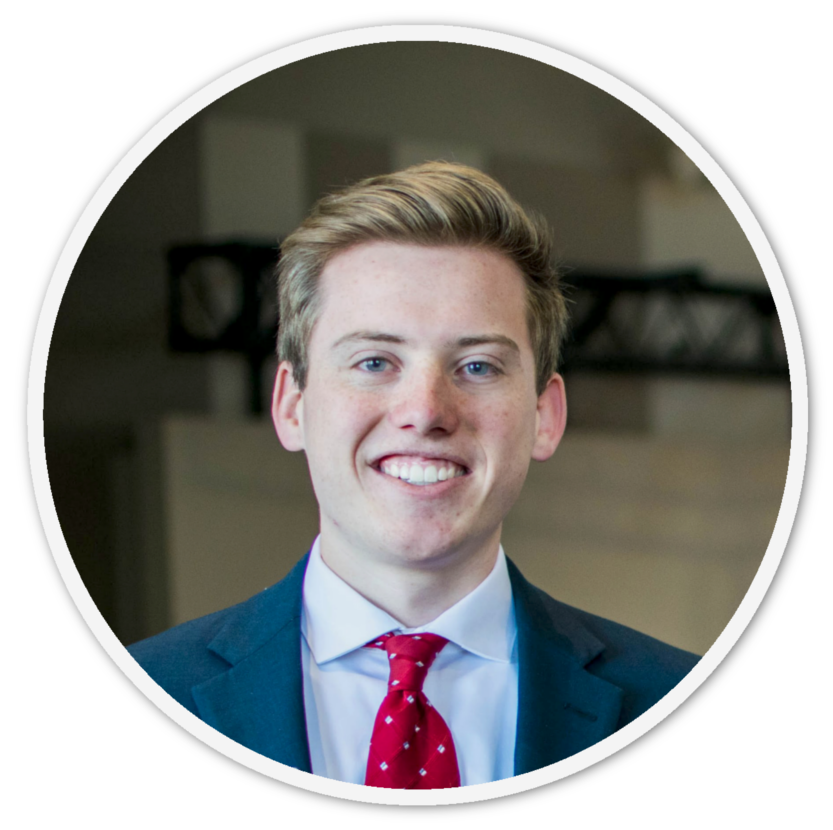
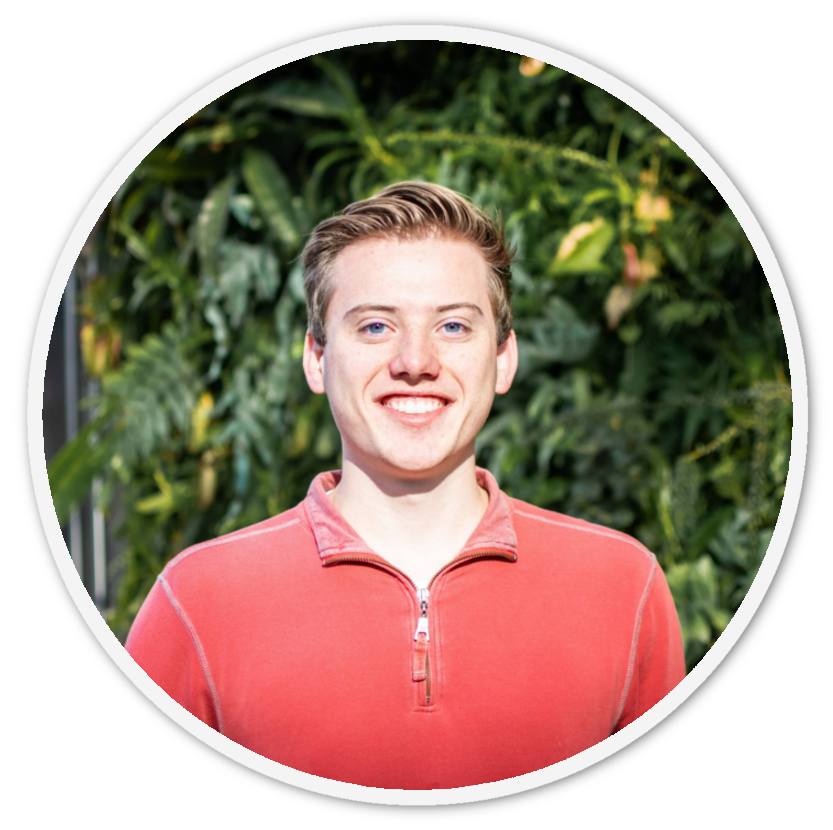
header overhaul + new profile pic

diff --git a/index.html b/index.html
@@ -17,21 +17,27 @@
 
     <header>
       <div class="container kanban">
-        <div class="row">
-          <div class="col-md-12">
-            <img class="profilepic" src="img/me.png">
-            <h1>NICK SISCOE</h1>
-            <p>Software Engineer • <strike>Husker football</strike> Scott Frost fan • Guitarist • Eye for design • Futuristic • Aspiring PM • Raikes Scholar • Kansas City BBQ lover</p>
-            <div class=container>
-              <div class="row">
-                <div class="col-lg-4">
-                  <p><a href="mailto:nick.siscoe@gmail.com" class="btn btn-light">Email</a></p>
-                </div>
-                <div class="col-lg-4">
-                  <p><a href="https://github.com/nasiscoe" class="btn btn-light">GitHub</a></p>
-                </div>
-                <div class="col-lg-4">
-                  <p><a href="https://dribbble.com/nasiscoe" class="btn btn-light">Dribbble</a></p>
+        <div class="row head">
+          <div class="col-lg-5">
+            <img class="profilepic" src="img/me.png" alt="A picture of Nick Siscoe">
+          </div>
+          <div class="col-lg-7">
+            <div class="card">
+              <div class="card-body">
+                <h1>Nick Siscoe</h1>
+                <p>Software Engineer • Husker Football Fan • Guitarist • Eye For Design • Futuristic • Aspiring PM • Raikes Scholar • Kansas City BBQ Lover</p>
+                <div class=container>
+                  <div class="row">
+                    <div class="col-sm-4">
+                      <p><a href="mailto:nick.siscoe@gmail.com" class="btn btn-primary">Email</a></p>
+                    </div>
+                    <div class="col-sm-4">
+                      <p><a href="https://github.com/nasiscoe" class="btn btn-primary">GitHub</a></p>
+                    </div>
+                    <div class="col-sm-4">
+                      <p><a href="https://dribbble.com/nasiscoe" class="btn btn-primary">Dribbble</a></p>
+                    </div>
+                  </div>
                 </div>
               </div>
             </div>

diff --git a/style.css b/style.css
@@ -4,9 +4,6 @@ header {
     padding: 0px 0px 0px 0px;
     position: relative;
     background-image: url("img/banner.png");
-    -webkit-box-shadow: inset 10px 10px 28px 28px rgba(0,0,0,0.3);
-    -moz-box-shadow: inset 10px 10px 28px 28px rgba(0,0,0,0.3);
-    box-shadow: inset 10px 10px 28px 28px rgba(0,0,0,0.3);
 }
 
 .kanban {
@@ -26,7 +23,7 @@ body {
 h1 {
   font-family: 'Source Sans Pro', serif;
   font-size: 3em;
-  color: #f4f4f4;
+  color: #373737;
   text-shadow: 0px 4px 3px rgba(0,0,0,0.4),
              0px 8px 13px rgba(0,0,0,0.1),
              0px 18px 23px rgba(0,0,0,0.1);
@@ -53,16 +50,13 @@ p.description {
   text-align: center;
 }
 
-.profilepic {
-  width: 30%;
-  -webkit-transition: width 0.4s ease-out;
-  -moz-transition: width 0.4s ease-out;
-  -o-transition: width 0.4s ease-out;
-  transition: width 0.4s ease-out;
+.head {
+    align-items: center;
 }
 
-.profilepic:hover {
-  width: 32%;
+.profilepic {
+  width: 100%;
+  max-width: 300px;
 }
 
 .card {
@@ -70,9 +64,9 @@ p.description {
   margin: 20px auto;
   max-width: 500px;
   background-color: #f4f4f4;
-  -webkit-box-shadow: 0px 8px 28px -1px rgba(0,0,0,0.3);
-  -moz-box-shadow: 0px 8px 28px -1px rgba(0,0,0,0.3);
-  box-shadow: 0px 8px 28px -1px rgba(0,0,0,0.3);
+  -webkit-box-shadow: 0px 8px 30px -1px rgba(0,0,0,0.2);
+  -moz-box-shadow: 0px 8px 30px -1px rgba(0,0,0,0.2);
+  box-shadow: 0px 8px 30px -1px rgba(0,0,0,0.2);
   -webkit-transition: box-shadow 0.4s ease-out;
   -moz-transition: box-shadow 0.4s ease-out;
   -o-transition: box-shadow 0.4s ease-out;
@@ -123,6 +117,9 @@ p.description {
   color: #f4f4f4;
   background: #48c6ef;
   border-color: #48c6ef;
+  -webkit-box-shadow: 0px 8px 30px -1px rgba(0,0,0,0.2);
+  -moz-box-shadow: 0px 8px 30px -1px rgba(0,0,0,0.2);
+  box-shadow: 0px 8px 30px -1px rgba(0,0,0,0.2);
 }
 
 .btn-primary:hover {
